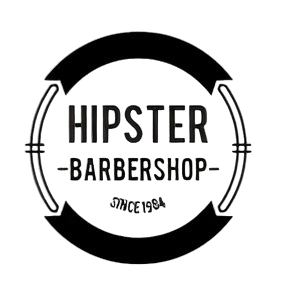
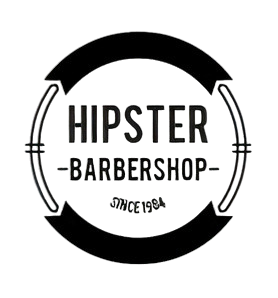
sponsor media queries

Changed region(s): [[0.0576, 0.0906, 0.9209, 0.906], [0.3453, 0.6644, 0.6043, 0.7248], [0.1727, 0.2114, 0.2014, 0.2416]]

diff --git a/index.html b/index.html
@@ -294,15 +294,13 @@
                 <h2 class="visually-hidden">Feedback</h2>
                 <div class="container">
                     <div class="feedback-wrapper">
-                        <div class="feedback-icon">
-                            <i class="ri-feedback-line"></i>
-                        </div>
+                        <img class="feedback-avatar" src="../Horizon/img/work/author-avatar-1.png" alt="feedback avatar">
                         <p class="feedback-text">
                             “Lorem ipsum dolor sit amet, consectetur adipiscing elit, sed do eiusmod tempor
                             incididunt
                             ut labore et dolore magna aliqua. Ut enim ad minim veniam, quis nostrud exercitation.”
                         </p>
-                        <p class="feedback-author">Steve Benner</p>
+                        <p class="feedback-author">Brian Stanford</p>
                     </div>
                 </div>
                 <!-- ===== /.Container ===== -->
@@ -398,22 +396,22 @@
                 <div class="container">
                     <ul class="team-footer-wrapper">
                         <li class="sponsor-item">
-                            <img src="../Horizon/img/sponsor/sponsor-1.png" alt="sponsor 1" width="137" height="149">
+                            <img src="../Horizon/img/sponsor/sponsor-1.png" alt="sponsor 1">
                         </li>
                         <li class="sponsor-item">
-                            <img src="../Horizon/img/sponsor/sponsor-2.png" alt="sponsor 2" width="112" height="120">
+                            <img src="../Horizon/img/sponsor/sponsor-2.png" alt="sponsor 2">
                         </li>
                         <li class="sponsor-item">
-                            <img src="../Horizon/img/sponsor/sponsor-3.png" alt="sponsor 3" width="157" height="149">
+                            <img src="../Horizon/img/sponsor/sponsor-3.png" alt="sponsor 3">
                         </li>
                         <li class="sponsor-item">
-                            <img src="../Horizon/img/sponsor/sponsor-4.png" alt="sponsor 4" width="154" height="149">
+                            <img src="../Horizon/img/sponsor/sponsor-4.png" alt="sponsor 4">
                         </li>
                         <li class="sponsor-item">
-                            <img src="../Horizon/img/sponsor/sponsor-5.png" alt="sponsor 5" width="153" height="149">
+                            <img src="../Horizon/img/sponsor/sponsor-5.png" alt="sponsor 5">
                         </li>
                         <li class="sponsor-item">
-                            <img src="../Horizon/img/sponsor/sponsor-6.png" alt="sponsor 6" width="144" height="149">
+                            <img src="../Horizon/img/sponsor/sponsor-6.png" alt="sponsor 6">
                         </li>
                     </ul>
                 </div>
@@ -508,7 +506,7 @@
                 <h2 class="visually-hidden">Feedback</h2>
                 <div class="container">
                     <div class="feedback-wrapper">
-                        <img class="feedback-avatar" src="../Horizon/img/work/author-avatar.png" alt="feedback avatar">
+                        <img class="feedback-avatar" src="../Horizon/img/work/author-avatar-2.png" alt="feedback avatar">
                         <p class="feedback-text">
                             “Lorem ipsum dolor sit amet, consectetur adipiscing elit, sed do eiusmod tempor
                             incididunt

diff --git a/css/style.css b/css/style.css
@@ -599,10 +599,15 @@ hr {
 .team-footer-wrapper {
     display: flex;
     justify-content: space-between;
-    margin-top: 117px;
+    margin-top: 100px;
     opacity: 0.8;
     align-items: center;
     padding: 50px 0;
+}
+
+.sponsor-item img {
+    width: 75%;
+    margin: 0 auto;
 }
 
 /* Work
@@ -1123,17 +1128,12 @@ hr {
         font-size: 20px;
     }
 
-    .feedback-icon {
-        padding: 20px 30px;
-        left: 74px;
-        top: 30%;
-    }
-
     .feedback-avatar {
         width: 155px;
         height: 155px;
         top: 25%;
     }
+
 }
 
 /* Medium devices (tablets, 768px and below)
@@ -1257,6 +1257,16 @@ hr {
         top: 0;
         left: 0;
     }
+
+    /* ===== /.Team Footer ===== */
+    .team-footer-wrapper {
+        flex: none;
+        display: grid;
+        justify-content: center;
+        grid-template-columns: 200px 200px 200px;
+        margin-top: 80px;
+    }
+
 }
 
 /* Small devices (landscape phones, 576px and below)
@@ -1344,5 +1354,11 @@ hr {
         width: 180px;
         bottom: -60px;
     }
+
+    /* ===== /.Team Footer ===== */
+    .team-footer-wrapper {
+        grid-template-columns: 200px 200px;
+    }
+
 
 }

diff --git a/css/reset.css b/css/reset.css
@@ -37,6 +37,7 @@ a {
 img {
     max-width: 100%;
     display: block;
+    height: auto;
 }
 
 input,
